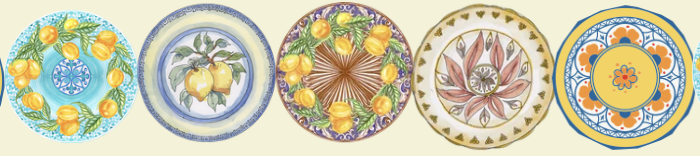
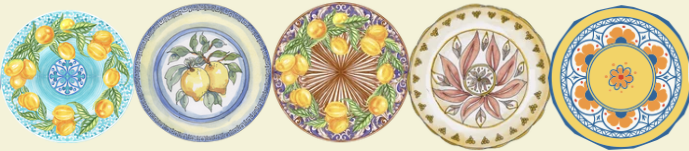
l

diff --git a/index.html b/index.html
@@ -1141,13 +1141,13 @@
             max-width: 620px;
             order: 2;
             padding: 80px 0;
-            text-align: center;
-            transform: translateX(clamp(-42px, -3vw, -14px));
+            text-align: left;
+            transform: translateX(clamp(-150px, -10vw, -90px));
         }
         .shop-copy .section-title {
             color: #171311;
             margin-bottom: 28px;
-            text-align: center;
+            text-align: left;
         }
         .shop-copy .section-subtitle {
             color: #171311;
@@ -1157,6 +1157,7 @@
             font-weight: 700;
             letter-spacing: 2px;
             margin-bottom: 28px;
+            text-align: left;
             text-transform: uppercase;
         }
         .shop-copy p {
@@ -1164,7 +1165,7 @@
             font-family: 'Courier Prime', monospace;
             font-size: clamp(1rem, 1.7vw, 1.25rem);
             line-height: 1.55;
-            margin: 0 auto 24px;
+            margin: 0 0 24px;
             max-width: 480px;
         }
         .shop-copy .shop-link {
